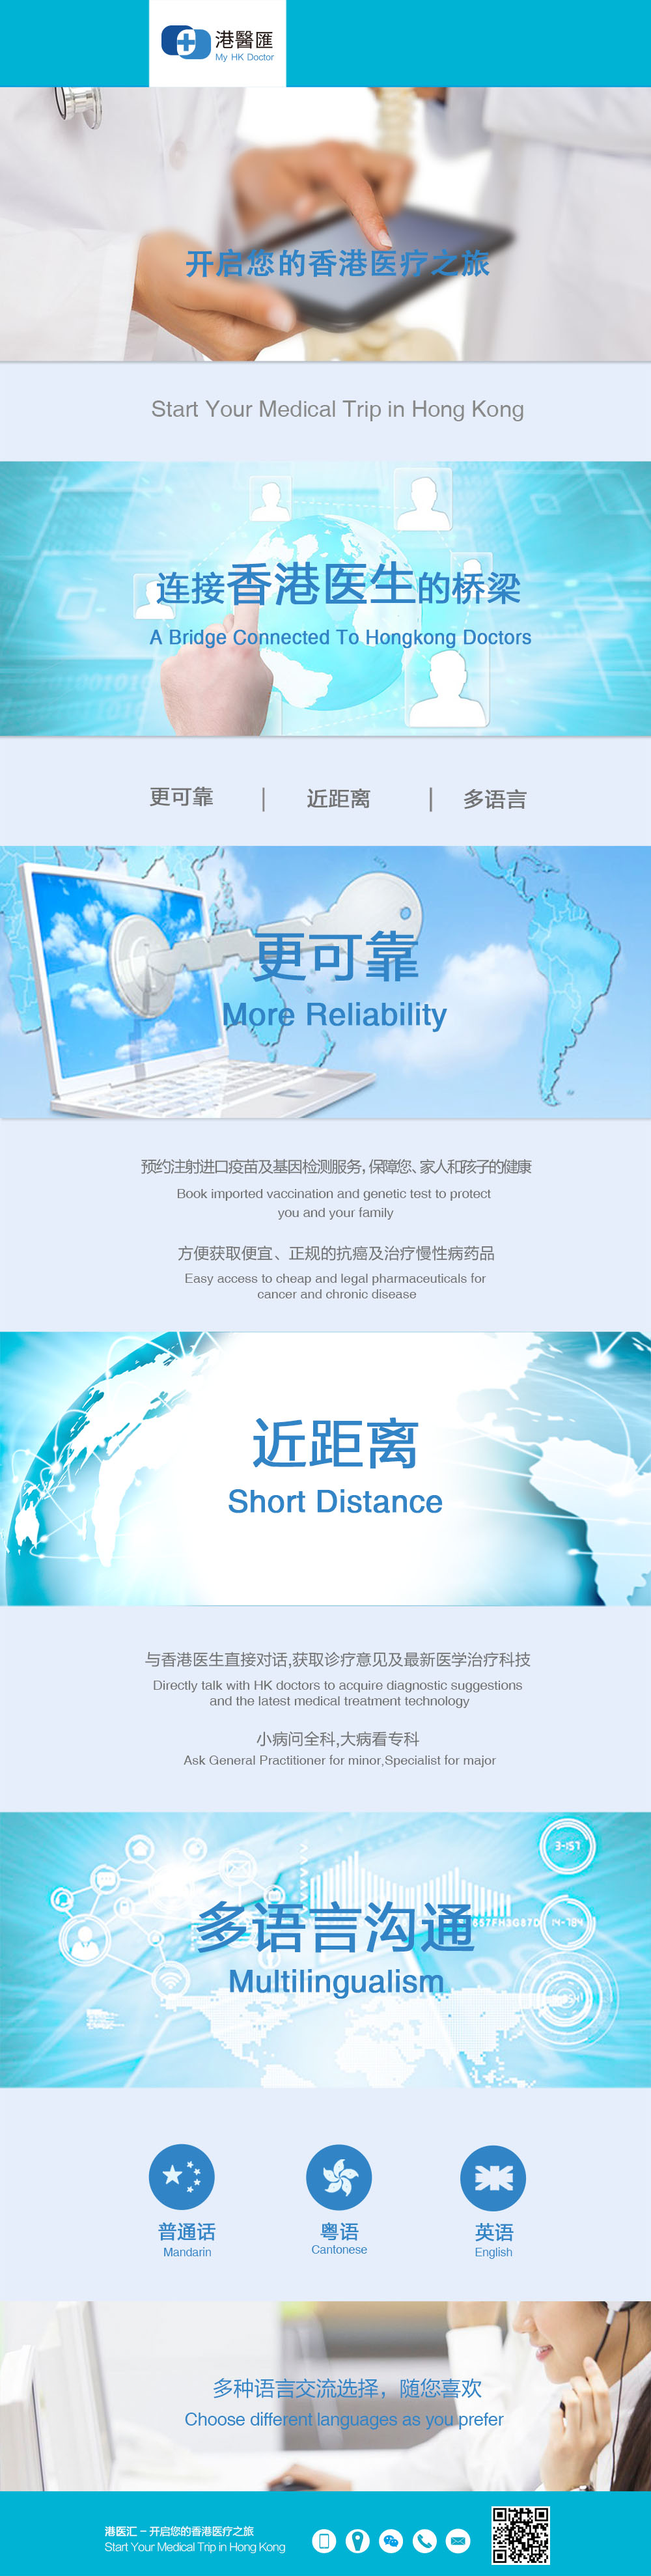
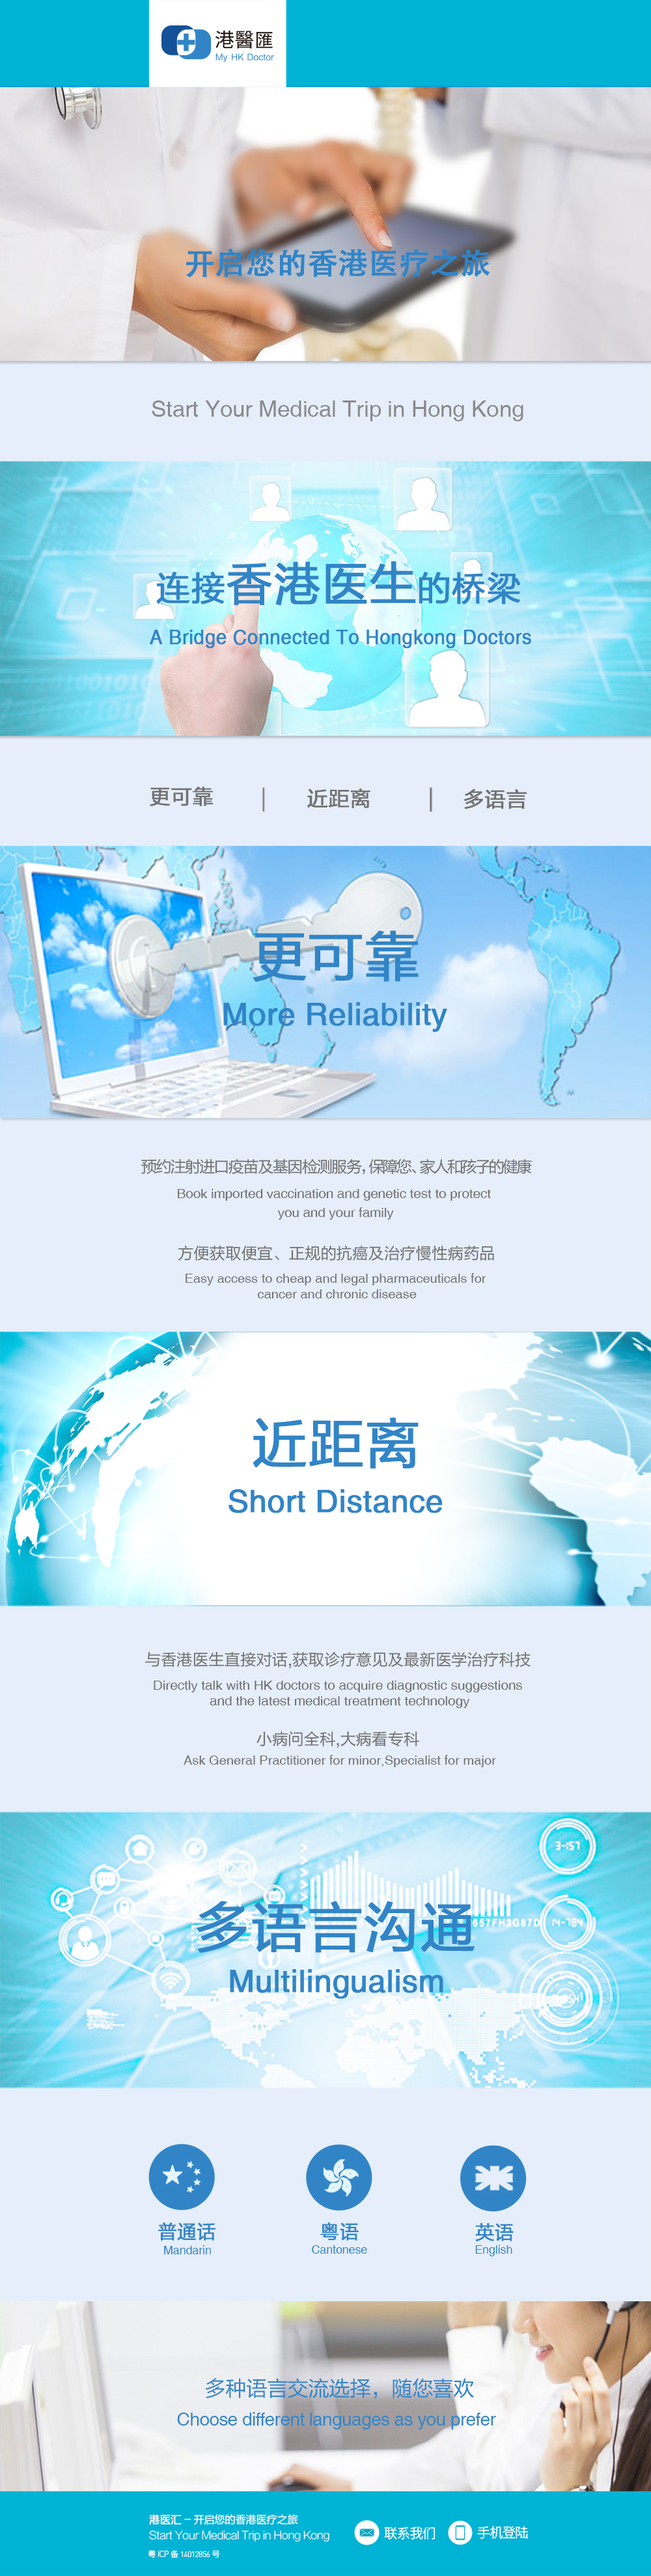
mail to and get agent

Changed region(s): [[0.155, 0.9017, 0.868, 1.0], [0.62, 0.9017, 0.744, 0.9328]]

diff --git a/UI/templates/pc.html b/UI/templates/pc.html
@@ -12,6 +12,11 @@
 	
 </head>
 <body style="border:0px;margin:0px;">
-<img src="{{$rootpath}}\themes\img\temp\pc.jpg" width="100%" />
+    <center>
+        <img src="{{$rootpath}}\themes\img\temp\pc.jpg" width="800" usemap="#newbook" />
+        <map name="newbook">
+            <area shape="rect" coords="425,3090,550,3130" href="Mailto:admin@imedlinks.com" target="_blank">
+        </map>
+    </center>
 </body>
 </html>
